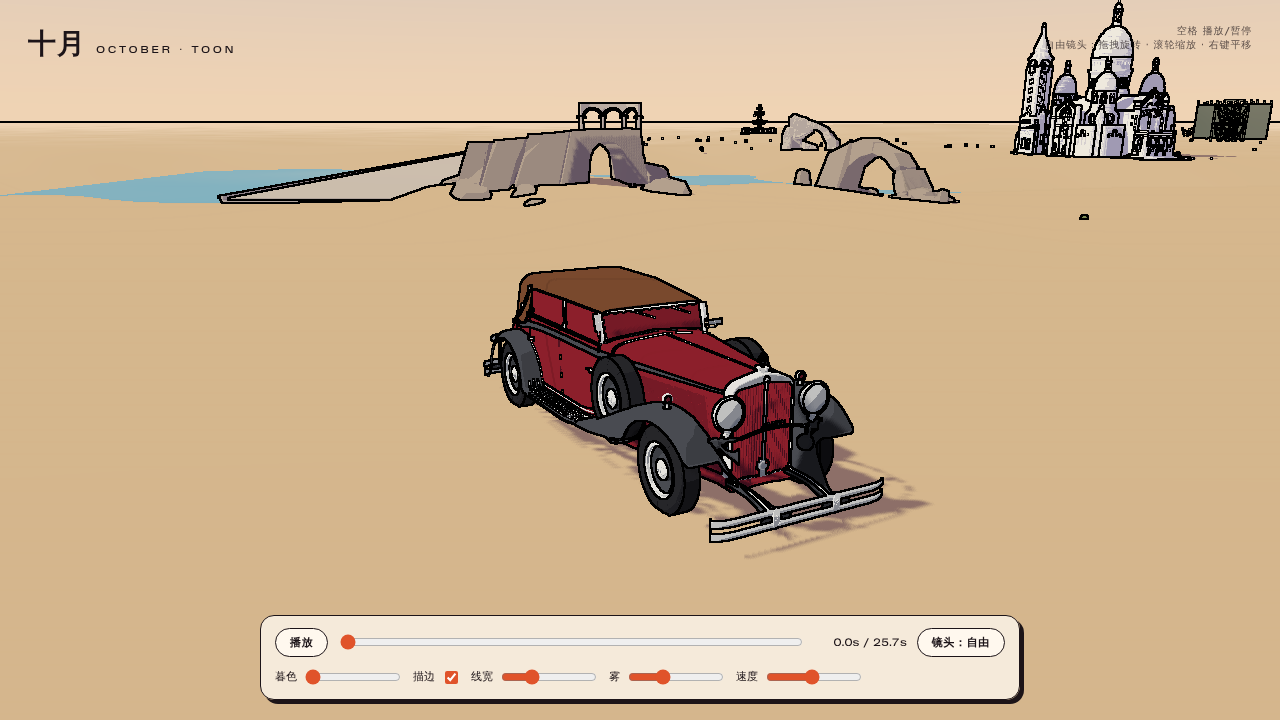
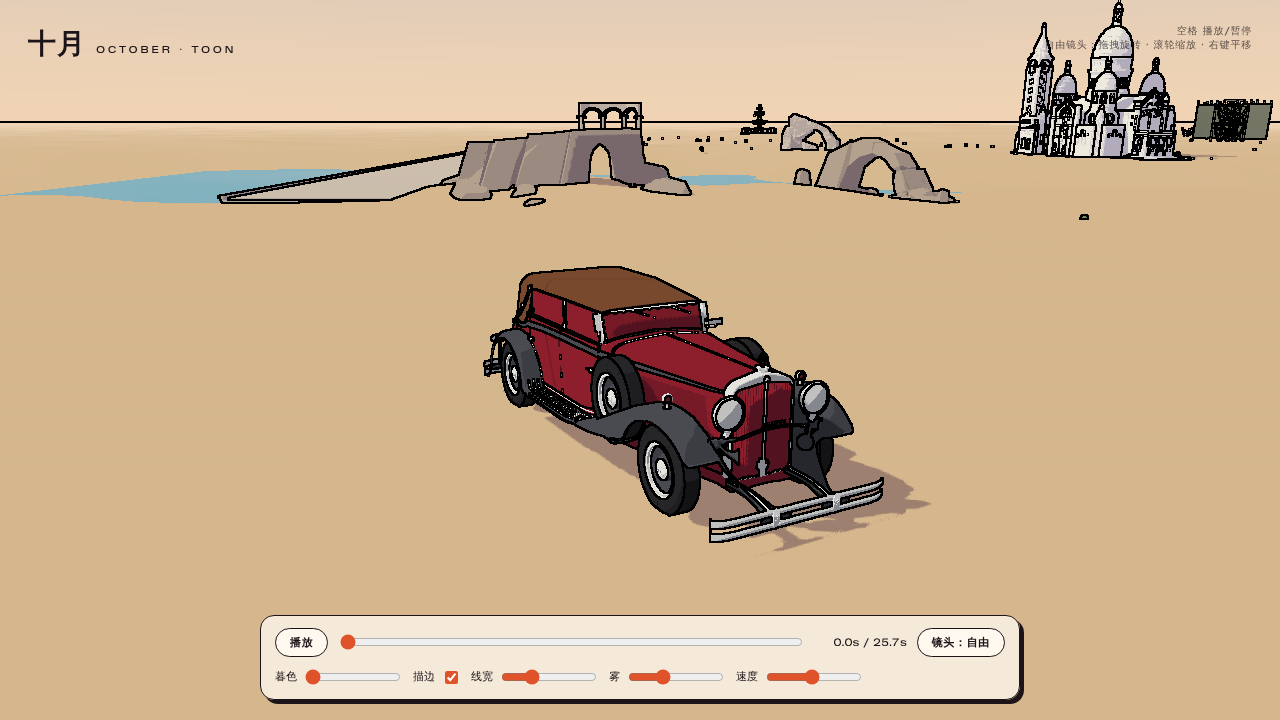
october-toon: hard-edged toon shadows
Binarize the shadow term in RE_Direct_Toon (fwidth-AA step) and drop
shadowed pixels to the darkest gradient band instead of multiplying the
soft PCF value into the ramp; cast shadows double-sided so open shell
meshes (car body, buildings) stop leaking light.

Claude-Session: https://claude.ai/code/session_01TD1XRQYzwnqbLkBKEzkmot

diff --git a/october-toon/src/toonMaterial.ts b/october-toon/src/toonMaterial.ts
@@ -261,6 +261,16 @@ const TOON_COMMON = /* glsl */ `
       `
 
 /** 原站 lights_toon_pars_fragment 整段替换（直射/间接都不走物理 BRDF，只输出灰度） */
+/**
+ * 阴影色阶：太阳强度（与场景里 DirectionalLight.intensity 一致）与阴影落入的色带值。
+ * 46/255 = three-tone.png 最暗一阶 → 阴影与背光面同色。
+ */
+export const TOON_SUN = 3
+export const TOON_SHADOW_DEFINES = {
+  TOON_SUN_INTENSITY: TOON_SUN.toFixed(1),
+  TOON_SHADOW_BAND: (46 / 255).toFixed(4)
+}
+
 const TOON_LIGHTS_PARS = /* glsl */ `varying vec3 vViewPosition;
 
 struct ToonMaterial {
@@ -268,9 +278,18 @@ struct ToonMaterial {
 };
 
 void RE_Direct_Toon( const in IncidentLight directLight, const in vec3 geometryPosition, const in vec3 geometryNormal, const in vec3 geometryViewDir, const in vec3 geometryClearcoatNormal, const in ToonMaterial material, inout ReflectedLight reflectedLight ) {
-  vec3 irradiance = getGradientIrradiance( geometryNormal, directLight.direction ) * directLight.color;
+  // 十月：把「梯度色带」与「阴影」拆开处理。
+  // 原站写法是 gradient × directLight.color，而 three 已把 PCF 阴影（0~1 连续值）乘进 color，
+  // 结果阴影是一团软边灰阶、自阴影出现渐变碎块，与三阶色带对不上。
+  // 这里：阴影 → 二值化（fwidth 做 1px 抗锯齿硬边）；在阴影里的像素直接落到梯度贴图最暗一阶。
+  float band = getGradientIrradiance( geometryNormal, directLight.direction ).r;
+  float lit = clamp( directLight.color.r / TOON_SUN_INTENSITY, 0.0, 1.0 );
+  float aa = max( fwidth( lit ), 1e-3 );
+  float inLight = smoothstep( 0.5 - aa, 0.5 + aa, lit );
+  band = mix( TOON_SHADOW_BAND, band, inLight );
+  vec3 irradiance = vec3( band * TOON_SUN_INTENSITY );
   // directColor is white
-  reflectedLight.directDiffuse += irradiance * BRDF_Lambert( vec3(1.0) ); 
+  reflectedLight.directDiffuse += irradiance * BRDF_Lambert( vec3(1.0) );
 }
 
 void RE_IndirectDiffuse_Toon( const in vec3 irradiance, const in vec3 geometryPosition, const in vec3 geometryNormal, const in vec3 geometryViewDir, const in vec3 geometryClearcoatNormal, const in ToonMaterial material, inout ReflectedLight reflectedLight ) {
@@ -319,7 +338,7 @@ export function createToonMaterial(opts: ToonMaterialOptions): THREE.MeshToonMat
     vertexColors: opts.vertexColors ?? false
   })
   // 原站：需要 vUv（random/mapFunc 用到），显式打开 USE_UV
-  mat.defines = { ...(mat.defines ?? {}), USE_UV: '' }
+  mat.defines = { ...(mat.defines ?? {}), USE_UV: '', ...TOON_SHADOW_DEFINES }
 
   const palette = opts.palette
   mat.onBeforeCompile = (shader) => {

diff --git a/october-toon/src/main.ts b/october-toon/src/main.ts
@@ -18,6 +18,7 @@ import {
   setFogIntensity,
   setFogColors,
   tickFog,
+  TOON_SUN,
   type ToonPalette
 } from './toonMaterial'
 import { MoebiusOutline } from './outlinePass'
@@ -124,12 +125,12 @@ scene.add(sky)
 // 太阳（motorbike lightsConfig：白光强度 3；Toon shader 里 3 × 1/π ≈ 0.955 → 受光面 ≈ directColor）
 // ---------------------------------------------------------------------------
 const SUN_DIR = new THREE.Vector3(-0.55, 0.75, 0.45).normalize()
-const sun = new THREE.DirectionalLight(0xffffff, 3)
+const sun = new THREE.DirectionalLight(0xffffff, TOON_SUN)
 sun.castShadow = true
 const IS_MOBILE = matchMedia('(pointer: coarse)').matches || Math.min(window.innerWidth, window.innerHeight) < 640
 sun.shadow.mapSize.setScalar(IS_MOBILE ? 2048 : 4096)
 sun.shadow.bias = -0.0004
-sun.shadow.normalBias = 0.04
+sun.shadow.normalBias = 0.03
 const SHADOW_HALF = 45
 Object.assign(sun.shadow.camera, { left: -SHADOW_HALF, right: SHADOW_HALF, top: SHADOW_HALF, bottom: -SHADOW_HALF, near: 1, far: 400 })
 scene.add(sun, sun.target)
@@ -189,6 +190,9 @@ function materialFor(key: string, palette: ToonPalette, doubleSide: boolean) {
   let mat = materialCache.get(cacheKey)
   if (!mat) {
     mat = createToonMaterial({ palette, gradientMap, side: doubleSide ? THREE.DoubleSide : THREE.FrontSide })
+    // three 默认只把背面画进阴影贴图；车身、建筑很多是不封闭的单层面片，会漏光成一团淡淡的条纹影子。
+    // 双面投射 + 阴影二值化后，阴影是实心色块
+    mat.shadowSide = THREE.DoubleSide
     mat.name = cacheKey
     materialCache.set(cacheKey, mat)
     toonMaterials.push({ mat, palette })

diff --git a/october-toon/README.md b/october-toon/README.md
@@ -26,6 +26,7 @@ npm run preview    # 预览生产构建
 | 模块 | motorbike 来源 | 做法 |
 | --- | --- | --- |
 | Toon 材质 | `toonMaterial.ts` → 原站 `MeshRampNoiseToonMaterial` | `MeshToonMaterial` + `onBeforeCompile` 替换 `<lights_toon_pars_fragment>`：直射光只取 3 阶梯度贴图（46/158/255，Nearest）的灰度，间接光清零；`<opaque_fragment>` 里用灰度在 `uDirectColor`/`uIndirectColor` 两色间混合 → 纯平色块 + 硬阴影。太阳光强 3（× 1/π ≈ 0.955 → 受光面 ≈ directColor） |
+| Toon 阴影（十月改动） | — | 原站把 PCF 阴影（0~1 连续值）直接乘进梯度，阴影是一团软边灰阶。这里把阴影二值化（`fwidth` 抗锯齿的 1px 硬边），在阴影里的像素直接落到梯度最暗一阶 → 阴影与背光面同色、纯平；并设 `shadowSide = DoubleSide`，避免单层面片（车身、建筑）漏光 |
 | 雾 | 原站 `FogBundle` | 强制 `USE_FOG + FOG_EXP2`，3D Perlin 噪声扰动雾深度、`fogTime` 缓慢流动，近/远两色 |
 | 描边 | `outlinePass.ts` → 原站 `MoebiusEffect` | ① override 材质把每个 mesh 画成唯一灰度 identity（+ 深度项）② 正常颜色 pass ③ 对 identity 图做 3×3 Sobel，`× intensity(100)` 后混成黑线 |
 | 日夜 | `setToonPaletteMix` | 每个色板 day / night 两套，按 mix 插值 —— 这里用作「暮色」滑杆 |
